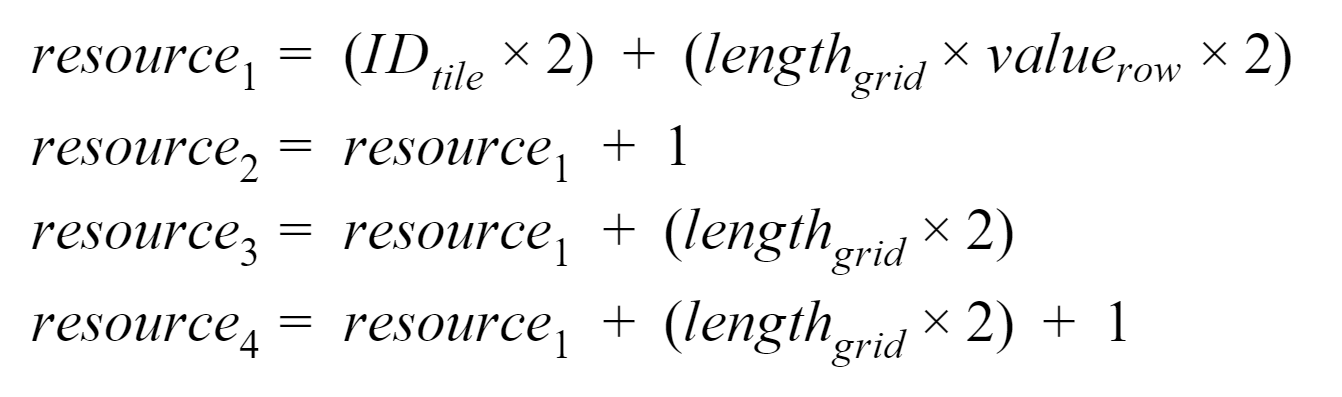
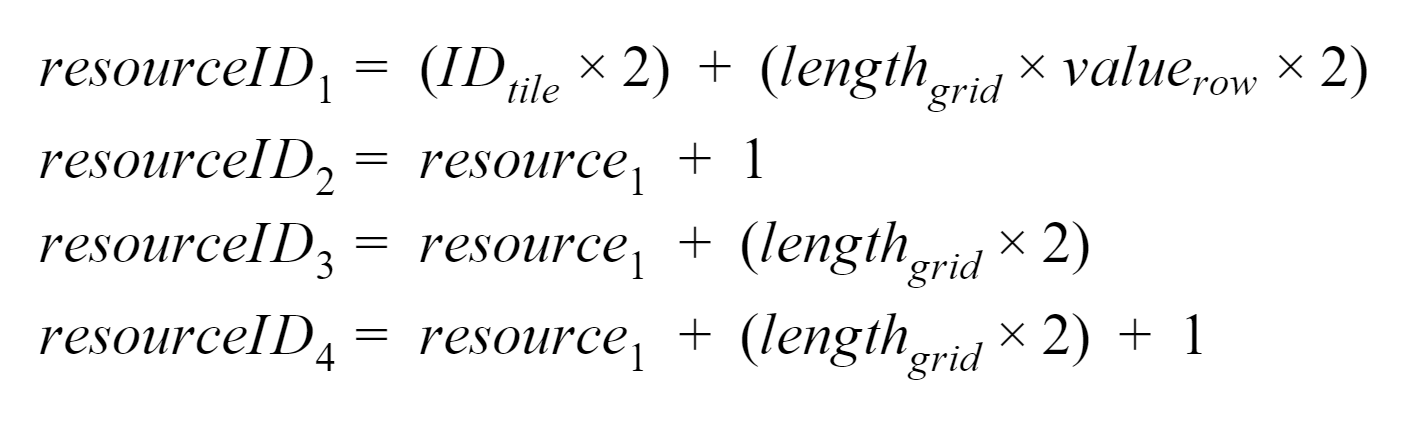
Updated equation.png and .md

diff --git a/projects/mock-pr.md b/projects/mock-pr.md
@@ -40,7 +40,7 @@ DISABLE		8
 
 The above gbmap file will result in the gameboard shown below. Note that the order of the resources from left-to-right in the gbmap file corresponds in a clockwise order starting from the upper-left resource node.
 
-<img class="ui medium centered image" src="../images/mino/test_gbmap.png"> 
+<img class="ui medium rounded centered image" src="../images/mino/test_gbmap.png"> 
 
 The parsing is done with a while-loop that iterates through the file line-by-line. The loop is continued if an empty or whitespaced line is detected. If no such line is detected, then it is tokenized and the first string token is compared in an if-else block where matching certain keywords will determine in which containers the data is stored.  Lines that do not start with any of the keywords are simply ignored and this property can be used to include comments as is done in the test file with the '#' symbol.  
 
@@ -105,13 +105,13 @@ for (int i = 0; i < totalNodes; i++)
 
 The above processes result in two isolated graphs, one for tiles and one for resources, as visualized below. 
 
-<img class="ui large centered image" src="../images/mino/tile_nodes.png">  
+<img class="ui large rounded centered image" src="../images/mino/tile_nodes.png">  
 
-<img class="ui large centered image" src="../images/mino/resource_nodes.png"> 
+<img class="ui large rounded centered image" src="../images/mino/resource_nodes.png"> 
 
 The challenge now is to link the corresponding tile nodes to their respective cluster of 4 resource nodes. We can do this mathematically using the tile node ID as follows:  
 
-<img class="ui large centered image" src="../images/mino/equation.png">  
+<img class="ui large rounded centered image" src="../images/mino/equation.png">  
 
 ```cpp
 for (int i = 0; i < totalNodes; i++)
@@ -138,4 +138,4 @@ for (int i = 0; i < totalNodes; i++)
 
 The two graphs combined result in a three-dimensional grid graph that resembles a trapazoidal prism, as shown below. For simplicity, a 2x2 tile grid graph is shown instead of the 3x3 example from `test.gbmap`.  
 
-<img class="ui fluid centered image" src="../images/mino/2x2_grid_visual.png">
+<img class="ui fluid rounded centered image" src="../images/mino/2x2_grid_visual.png">
